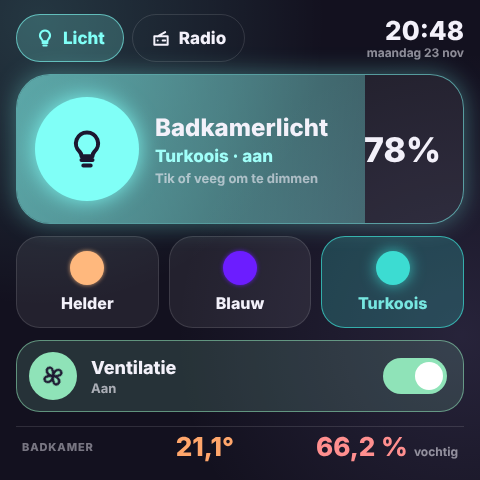
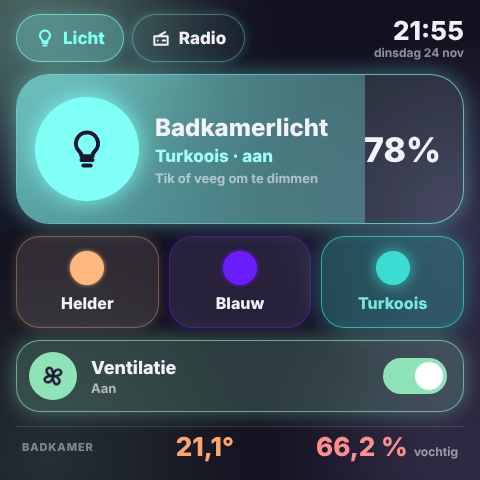
Glow Panel Card: gloed, gekleurde randen en halo zoals de andere Glow-kaarten (1.30.1)
Claude-Session: https://claude.ai/code/session_015vFVsQNPaxdMbxNFvPhSwg

diff --git a/dist/glow-cards.js b/dist/glow-cards.js
@@ -1,4 +1,4 @@
-/*! Glow Cards v1.30.0 – https://github.com/stijnleroy/glow-cards – MIT */
+/*! Glow Cards v1.30.1 – https://github.com/stijnleroy/glow-cards – MIT */
 
 /* ---- kit.js ---- */
 {
@@ -15404,17 +15404,17 @@ const GPN_CSS = `
   button { font: inherit; color: inherit; cursor: pointer; -webkit-tap-highlight-color: transparent; }
   button:active { transform: scale(0.97); }
   ha-card { position: relative; overflow: hidden; height: var(--gpn-h, 100%); min-height: 420px; padding: 14px 16px; display: flex; flex-direction: column; gap: 12px; border-radius: var(--gpn-r, 0);
-    background: radial-gradient(circle at 8% 4%, rgba(var(--l), 0.16), transparent 45%), var(--lovelace-background, var(--primary-background-color, #13111F));
+    background: var(--lovelace-background, var(--primary-background-color, #13111F));
     color: var(--primary-text-color, #F3F1FA); font-family: var(--glow-font, Nunito, system-ui, sans-serif); border: none; box-shadow: none; transition: background 0.6s; user-select: none; }
   .top { display: flex; align-items: center; justify-content: space-between; height: 48px; flex-shrink: 0; }
   .tabs { display: flex; gap: 8px; }
   .tab { height: 48px; padding: 0 18px; border-radius: 24px; display: inline-flex; align-items: center; gap: 8px; font-size: 17px; font-weight: 800; background: transparent; border: 1px solid var(--glow-border, rgba(255,255,255,0.1)); }
-  .tab.on { border-color: rgba(var(--l), 0.6); background: rgba(var(--l), 0.2); color: color-mix(in srgb, rgb(var(--l)), var(--glow-ink, #24262B) var(--glow-ink-amount, 0%)); }
+  .tab.on { border-color: rgba(var(--l), 0.6); background-color: rgba(var(--l), 0.2); color: color-mix(in srgb, rgb(var(--l)), var(--glow-ink, #24262B) var(--glow-ink-amount, 0%)); }
   .clock { display: flex; flex-direction: column; align-items: flex-end; line-height: 1; }
   .clock b { font-size: 26px; font-weight: 800; } .clock span { font-size: 12px; font-weight: 700; opacity: 0.55; margin-top: 3px; }
   .bar { position: relative; height: 150px; flex-shrink: 0; border-radius: 34px; overflow: hidden; display: flex; align-items: center; gap: 16px; padding: 0 22px 0 18px; touch-action: none;
     background: var(--glow-surface, rgba(255,255,255,0.07)); border: 1px solid var(--glow-border, rgba(255,255,255,0.1)); }
-  .bar.on { border-color: rgba(var(--l), 0.55); box-shadow: 0 0 calc(var(--glow) * 1.6) rgba(var(--l), 0.35); }
+  
   .fill { position: absolute; left: 0; top: 0; bottom: 0; width: 0; background: linear-gradient(90deg, rgba(var(--l), 0.55), rgba(var(--l), 0.3)); transition: width 0.25s; pointer-events: none; }
   .bar.drag .fill { transition: none; }
   .pw { position: relative; width: 104px; height: 104px; border-radius: 52px; flex-shrink: 0; display: flex; align-items: center; justify-content: center; background: var(--glow-surface, rgba(255,255,255,0.07)); border: 1px solid var(--glow-border, rgba(255,255,255,0.1)); }
@@ -15429,14 +15429,14 @@ const GPN_CSS = `
   .p { height: 92px; border-radius: 24px; display: flex; flex-direction: column; align-items: center; justify-content: center; gap: 8px; font-size: 16px; font-weight: 800; min-width: 0;
     background: var(--glow-surface, rgba(255,255,255,0.07)); border: 1px solid var(--glow-border, rgba(255,255,255,0.1)); }
   .p span:last-child { max-width: 100%; padding: 0 6px; white-space: nowrap; overflow: hidden; text-overflow: ellipsis; }
-  .p.on { background: rgba(var(--c), 0.22); border-color: rgba(var(--c), 0.7); color: color-mix(in srgb, color-mix(in srgb, rgb(var(--c)) 70%, #fff), var(--glow-ink, #24262B) var(--glow-ink-amount, 0%)); }
+  .p.on { background-color: rgba(var(--c), 0.22); color: color-mix(in srgb, color-mix(in srgb, rgb(var(--c)) 70%, #fff), var(--glow-ink, #24262B) var(--glow-ink-amount, 0%)); }
   .sw { width: 34px; height: 34px; border-radius: 17px; background: rgb(var(--c)); box-shadow: 0 0 4px rgba(var(--c), 0.8); }
   .p.on .sw { box-shadow: 0 0 var(--glow) rgba(var(--c), 0.8); }
   .sw.rb { background: conic-gradient(#ff6b6b, #ffd66b, #8fe3b8, #6bc8ff, #a78bff, #ff8fc8, #ff6b6b); }
   .fan { height: 72px; flex-shrink: 0; border-radius: 24px; display: flex; align-items: center; gap: 14px; padding: 0 16px 0 12px; text-align: left; width: 100%;
     background: var(--glow-surface, rgba(255,255,255,0.07)); border: 1px solid var(--glow-border, rgba(255,255,255,0.1)); }
-  .fan.on { background: rgba(143, 227, 184, 0.16); border-color: rgba(143, 227, 184, 0.55); }
-  .fan.humid { border-color: rgba(255, 143, 143, 0.6); }
+  .fan.on { background-color: rgba(143, 227, 184, 0.16); }
+  
   .fi { width: 48px; height: 48px; border-radius: 24px; display: flex; align-items: center; justify-content: center; flex-shrink: 0; background: var(--glow-surface, rgba(255,255,255,0.07)); }
   .fan.on .fi { color: #1C1730; background: rgb(143, 227, 184); }
   .fan.on .fi svg { animation: gpnspin 2s linear infinite; }
@@ -15481,7 +15481,16 @@ const GPN_CSS = `
     background: var(--glow-surface, rgba(255,255,255,0.07)); border: 1px solid var(--glow-border, rgba(255,255,255,0.1)); }
   .s .logo { width: 44px; height: 44px; border-radius: 14px; font-size: 16px; }
   .s span:last-child { font-size: 14px; font-weight: 800; max-width: 100%; padding: 0 6px; white-space: nowrap; overflow: hidden; text-overflow: ellipsis; }
-  .s.on { background: rgba(var(--c), 0.2); border-color: rgba(var(--c), 0.7); box-shadow: 0 0 var(--glow) rgba(var(--c), 0.4); color: color-mix(in srgb, rgb(var(--c)), var(--glow-ink, #24262B) var(--glow-ink-amount, 0%)); }
+  .s.on { background-color: rgba(var(--c), 0.2); color: color-mix(in srgb, rgb(var(--c)), var(--glow-ink, #24262B) var(--glow-ink-amount, 0%)); }
+  /* Glow: elk blok een gekleurde rand, een zachte gloed en een lichte tint in zijn eigen kleur */
+  .bar, .p, .fan, .play, .s, .tab { border-color: rgba(var(--g), 0.35); box-shadow: 0 0 calc(var(--glow) * 0.8) rgba(var(--g), 0.22);
+    background-image: linear-gradient(rgba(var(--g), 0.06), rgba(var(--g), 0.06)); transition: border-color 0.4s, box-shadow 0.4s, background-color 0.4s; }
+  .bar, .tab { --g: var(--l); } .p, .play, .s { --g: var(--c); } .fan { --g: 143, 227, 184; } .fan.humid { --g: 255, 143, 143; }
+  .bar.on, .p.on, .s.on, .play.on, .fan.on { box-shadow: 0 0 calc(var(--glow) * 1.4) rgba(var(--g), 0.4); border-color: rgba(var(--g), 0.65); }
+  .halo { position: absolute; border-radius: 50%; filter: blur(60px); pointer-events: none; }
+  .halo.a { left: -70px; top: -80px; width: 240px; height: 240px; opacity: 0.3; background: rgb(var(--l)); transition: background 0.6s; }
+  .halo.b { right: -90px; bottom: -90px; width: 240px; height: 240px; opacity: 0.18; background: rgb(185, 168, 255); }
+  ha-card > *:not(.halo):not(.sheet) { position: relative; }
   .warn { padding: 14px; border-radius: 18px; font-weight: 800; background: rgba(255, 143, 143, 0.12); border: 1px solid rgba(255, 143, 143, 0.45); }
 `;
 
@@ -15603,7 +15612,7 @@ class GlowPanelCard extends HTMLElement {
       ${temp ? `<b class="t">${E(fmt(temp, 1))}°</b>` : ''}
       ${hum ? `<span><b class="hm" style="--hc:${hc}">${E(fmt(hum, 1))} %</b><small>${E(this._t(humid ? 'humid' : 'hum'))}</small></span>` : ''}</div>` : '';
 
-    this.shadowRoot.innerHTML = `<style>${GPN_CSS}</style><ha-card style="--l:${lrgb};--glow:${parseInt(c.glow, 10) || 0}px${c.height ? ';--gpn-h:' + E(c.height) : ''}${c.radius != null ? ';--gpn-r:' + parseInt(c.radius, 10) + 'px' : ''}${c.dark ? ';' + GPN_DARK : ''}">
+    this.shadowRoot.innerHTML = `<style>${GPN_CSS}</style><ha-card style="--l:${lrgb};--glow:${parseInt(c.glow, 10) || 0}px${c.height ? ';--gpn-h:' + E(c.height) : ''}${c.radius != null ? ';--gpn-r:' + parseInt(c.radius, 10) + 'px' : ''}${c.dark ? ';' + GPN_DARK : ''}"><div class="halo a"></div><div class="halo b"></div>
       <div class="top"><div class="tabs">${hasRadio ? tab('light', this._t('light_tab'), GPN_BULB) + tab('radio', this._t('radio_tab'), GPN_RADIO) : ''}</div><div class="clock"><b>${E(time)}</b><span>${E(date)}</span></div></div>
       ${body}${sheet}${foot}</ha-card>`;
     this._wire();
@@ -15693,4 +15702,4 @@ GPN.register('glow-panel-card', 'Glow Panel Card', GPN_T, GlowPanelCard);
 
 }
 
-console.info('%c GLOW-CARDS %c v1.30.0 ', 'color:#1C1730;background:#FFE08A;font-weight:700;border-radius:4px 0 0 4px;padding:2px 4px', 'color:#FFE08A;background:#1C1730;font-weight:700;border-radius:0 4px 4px 0;padding:2px 4px');
+console.info('%c GLOW-CARDS %c v1.30.1 ', 'color:#1C1730;background:#FFE08A;font-weight:700;border-radius:4px 0 0 4px;padding:2px 4px', 'color:#FFE08A;background:#1C1730;font-weight:700;border-radius:0 4px 4px 0;padding:2px 4px');

diff --git a/src/panel.js b/src/panel.js
@@ -36,17 +36,17 @@ const GPN_CSS = `
   button { font: inherit; color: inherit; cursor: pointer; -webkit-tap-highlight-color: transparent; }
   button:active { transform: scale(0.97); }
   ha-card { position: relative; overflow: hidden; height: var(--gpn-h, 100%); min-height: 420px; padding: 14px 16px; display: flex; flex-direction: column; gap: 12px; border-radius: var(--gpn-r, 0);
-    background: radial-gradient(circle at 8% 4%, rgba(var(--l), 0.16), transparent 45%), var(--lovelace-background, var(--primary-background-color, #13111F));
+    background: var(--lovelace-background, var(--primary-background-color, #13111F));
     color: var(--primary-text-color, #F3F1FA); font-family: var(--glow-font, Nunito, system-ui, sans-serif); border: none; box-shadow: none; transition: background 0.6s; user-select: none; }
   .top { display: flex; align-items: center; justify-content: space-between; height: 48px; flex-shrink: 0; }
   .tabs { display: flex; gap: 8px; }
   .tab { height: 48px; padding: 0 18px; border-radius: 24px; display: inline-flex; align-items: center; gap: 8px; font-size: 17px; font-weight: 800; background: transparent; border: 1px solid var(--glow-border, rgba(255,255,255,0.1)); }
-  .tab.on { border-color: rgba(var(--l), 0.6); background: rgba(var(--l), 0.2); color: color-mix(in srgb, rgb(var(--l)), var(--glow-ink, #24262B) var(--glow-ink-amount, 0%)); }
+  .tab.on { border-color: rgba(var(--l), 0.6); background-color: rgba(var(--l), 0.2); color: color-mix(in srgb, rgb(var(--l)), var(--glow-ink, #24262B) var(--glow-ink-amount, 0%)); }
   .clock { display: flex; flex-direction: column; align-items: flex-end; line-height: 1; }
   .clock b { font-size: 26px; font-weight: 800; } .clock span { font-size: 12px; font-weight: 700; opacity: 0.55; margin-top: 3px; }
   .bar { position: relative; height: 150px; flex-shrink: 0; border-radius: 34px; overflow: hidden; display: flex; align-items: center; gap: 16px; padding: 0 22px 0 18px; touch-action: none;
     background: var(--glow-surface, rgba(255,255,255,0.07)); border: 1px solid var(--glow-border, rgba(255,255,255,0.1)); }
-  .bar.on { border-color: rgba(var(--l), 0.55); box-shadow: 0 0 calc(var(--glow) * 1.6) rgba(var(--l), 0.35); }
+  
   .fill { position: absolute; left: 0; top: 0; bottom: 0; width: 0; background: linear-gradient(90deg, rgba(var(--l), 0.55), rgba(var(--l), 0.3)); transition: width 0.25s; pointer-events: none; }
   .bar.drag .fill { transition: none; }
   .pw { position: relative; width: 104px; height: 104px; border-radius: 52px; flex-shrink: 0; display: flex; align-items: center; justify-content: center; background: var(--glow-surface, rgba(255,255,255,0.07)); border: 1px solid var(--glow-border, rgba(255,255,255,0.1)); }
@@ -61,14 +61,14 @@ const GPN_CSS = `
   .p { height: 92px; border-radius: 24px; display: flex; flex-direction: column; align-items: center; justify-content: center; gap: 8px; font-size: 16px; font-weight: 800; min-width: 0;
     background: var(--glow-surface, rgba(255,255,255,0.07)); border: 1px solid var(--glow-border, rgba(255,255,255,0.1)); }
   .p span:last-child { max-width: 100%; padding: 0 6px; white-space: nowrap; overflow: hidden; text-overflow: ellipsis; }
-  .p.on { background: rgba(var(--c), 0.22); border-color: rgba(var(--c), 0.7); color: color-mix(in srgb, color-mix(in srgb, rgb(var(--c)) 70%, #fff), var(--glow-ink, #24262B) var(--glow-ink-amount, 0%)); }
+  .p.on { background-color: rgba(var(--c), 0.22); color: color-mix(in srgb, color-mix(in srgb, rgb(var(--c)) 70%, #fff), var(--glow-ink, #24262B) var(--glow-ink-amount, 0%)); }
   .sw { width: 34px; height: 34px; border-radius: 17px; background: rgb(var(--c)); box-shadow: 0 0 4px rgba(var(--c), 0.8); }
   .p.on .sw { box-shadow: 0 0 var(--glow) rgba(var(--c), 0.8); }
   .sw.rb { background: conic-gradient(#ff6b6b, #ffd66b, #8fe3b8, #6bc8ff, #a78bff, #ff8fc8, #ff6b6b); }
   .fan { height: 72px; flex-shrink: 0; border-radius: 24px; display: flex; align-items: center; gap: 14px; padding: 0 16px 0 12px; text-align: left; width: 100%;
     background: var(--glow-surface, rgba(255,255,255,0.07)); border: 1px solid var(--glow-border, rgba(255,255,255,0.1)); }
-  .fan.on { background: rgba(143, 227, 184, 0.16); border-color: rgba(143, 227, 184, 0.55); }
-  .fan.humid { border-color: rgba(255, 143, 143, 0.6); }
+  .fan.on { background-color: rgba(143, 227, 184, 0.16); }
+  
   .fi { width: 48px; height: 48px; border-radius: 24px; display: flex; align-items: center; justify-content: center; flex-shrink: 0; background: var(--glow-surface, rgba(255,255,255,0.07)); }
   .fan.on .fi { color: #1C1730; background: rgb(143, 227, 184); }
   .fan.on .fi svg { animation: gpnspin 2s linear infinite; }
@@ -113,7 +113,16 @@ const GPN_CSS = `
     background: var(--glow-surface, rgba(255,255,255,0.07)); border: 1px solid var(--glow-border, rgba(255,255,255,0.1)); }
   .s .logo { width: 44px; height: 44px; border-radius: 14px; font-size: 16px; }
   .s span:last-child { font-size: 14px; font-weight: 800; max-width: 100%; padding: 0 6px; white-space: nowrap; overflow: hidden; text-overflow: ellipsis; }
-  .s.on { background: rgba(var(--c), 0.2); border-color: rgba(var(--c), 0.7); box-shadow: 0 0 var(--glow) rgba(var(--c), 0.4); color: color-mix(in srgb, rgb(var(--c)), var(--glow-ink, #24262B) var(--glow-ink-amount, 0%)); }
+  .s.on { background-color: rgba(var(--c), 0.2); color: color-mix(in srgb, rgb(var(--c)), var(--glow-ink, #24262B) var(--glow-ink-amount, 0%)); }
+  /* Glow: elk blok een gekleurde rand, een zachte gloed en een lichte tint in zijn eigen kleur */
+  .bar, .p, .fan, .play, .s, .tab { border-color: rgba(var(--g), 0.35); box-shadow: 0 0 calc(var(--glow) * 0.8) rgba(var(--g), 0.22);
+    background-image: linear-gradient(rgba(var(--g), 0.06), rgba(var(--g), 0.06)); transition: border-color 0.4s, box-shadow 0.4s, background-color 0.4s; }
+  .bar, .tab { --g: var(--l); } .p, .play, .s { --g: var(--c); } .fan { --g: 143, 227, 184; } .fan.humid { --g: 255, 143, 143; }
+  .bar.on, .p.on, .s.on, .play.on, .fan.on { box-shadow: 0 0 calc(var(--glow) * 1.4) rgba(var(--g), 0.4); border-color: rgba(var(--g), 0.65); }
+  .halo { position: absolute; border-radius: 50%; filter: blur(60px); pointer-events: none; }
+  .halo.a { left: -70px; top: -80px; width: 240px; height: 240px; opacity: 0.3; background: rgb(var(--l)); transition: background 0.6s; }
+  .halo.b { right: -90px; bottom: -90px; width: 240px; height: 240px; opacity: 0.18; background: rgb(185, 168, 255); }
+  ha-card > *:not(.halo):not(.sheet) { position: relative; }
   .warn { padding: 14px; border-radius: 18px; font-weight: 800; background: rgba(255, 143, 143, 0.12); border: 1px solid rgba(255, 143, 143, 0.45); }
 `;
 
@@ -235,7 +244,7 @@ class GlowPanelCard extends HTMLElement {
       ${temp ? `<b class="t">${E(fmt(temp, 1))}°</b>` : ''}
       ${hum ? `<span><b class="hm" style="--hc:${hc}">${E(fmt(hum, 1))} %</b><small>${E(this._t(humid ? 'humid' : 'hum'))}</small></span>` : ''}</div>` : '';
 
-    this.shadowRoot.innerHTML = `<style>${GPN_CSS}</style><ha-card style="--l:${lrgb};--glow:${parseInt(c.glow, 10) || 0}px${c.height ? ';--gpn-h:' + E(c.height) : ''}${c.radius != null ? ';--gpn-r:' + parseInt(c.radius, 10) + 'px' : ''}${c.dark ? ';' + GPN_DARK : ''}">
+    this.shadowRoot.innerHTML = `<style>${GPN_CSS}</style><ha-card style="--l:${lrgb};--glow:${parseInt(c.glow, 10) || 0}px${c.height ? ';--gpn-h:' + E(c.height) : ''}${c.radius != null ? ';--gpn-r:' + parseInt(c.radius, 10) + 'px' : ''}${c.dark ? ';' + GPN_DARK : ''}"><div class="halo a"></div><div class="halo b"></div>
       <div class="top"><div class="tabs">${hasRadio ? tab('light', this._t('light_tab'), GPN_BULB) + tab('radio', this._t('radio_tab'), GPN_RADIO) : ''}</div><div class="clock"><b>${E(time)}</b><span>${E(date)}</span></div></div>
       ${body}${sheet}${foot}</ha-card>`;
     this._wire();
